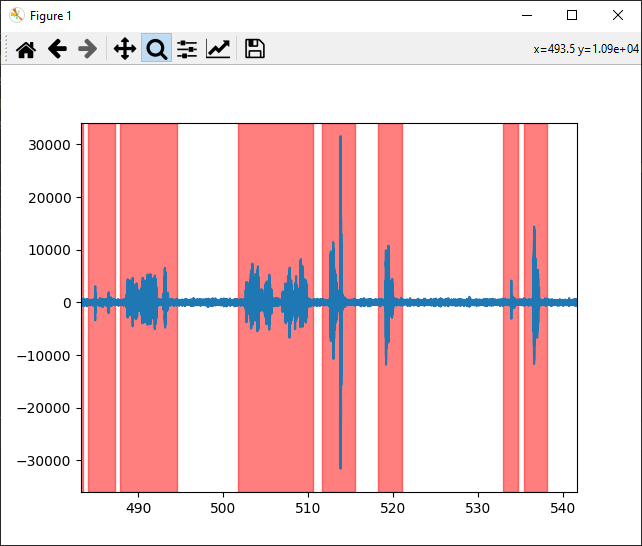
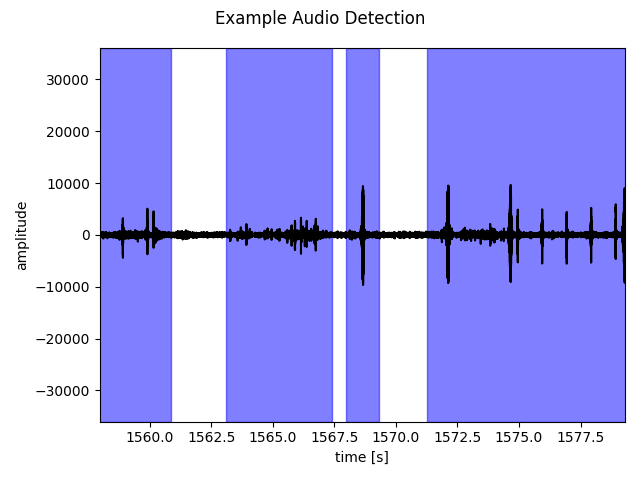
Added the ability to generate an example image. Requires matplotlib (added as requirement)

diff --git a/support.py b/support.py
@@ -20,10 +20,11 @@ import numpy as np
 from moviepy.editor import *
 import argparse
 from functools import reduce
+import matplotlib.pyplot as plt
 
 __major_version__ = 0
 __minor_version__ = 0
-__revision__ = 3
+__revision__ = 4
 __VERSION__ = f'Auto Video Editor {__major_version__}.{__minor_version__}.{__revision__}'
 
 parser = argparse.ArgumentParser(description="Automatically remove silence from a video.")
@@ -40,6 +41,7 @@ parser.add_argument('-lo', '--lead-out', type=float)
 parser.add_argument('-c', '--config')
 parser.add_argument('-n', '--nice-audio', action='store_true')
 parser.add_argument('-v', '--version', action='version', version=__VERSION__)
+parser.add_argument('--example-image', action='store_true')
 
 
 def combine_overlaps(ranges):
@@ -210,3 +212,37 @@ def nice_audio(audio_file):
     data_out = lfilter(b, a, data[:, 0])
     data_out /= np.max(np.abs(data_out))
     write_mp3(audio_file, fs, data_out, normalized=True)
+
+
+def export_example_image(audio_data, fs_orig, fs, segments, seed=None):
+    if seed:
+        np.random.seed(seed)
+
+    # Choose a segment at random:
+    segment = np.random.choice(np.array(segments, dtype="i,i"), 1).astype(object)[0]
+    start_index = segment[0] - int(fs*10)  # 10-second padding
+    start_index = 0 if start_index < 0 else start_index
+    start_time = start_index / fs
+
+    end_index = segment[1] + int(fs * 10)
+    end_index = len(audio_data) if start_index > len(audio_data) else end_index  # 10-second padding
+    end_time = end_index / fs
+
+    t = np.linspace(0, len(audio_data), len(audio_data)) / fs_orig
+    fig, ax = plt.subplots(1, 1)
+    ax.plot(t, audio_data, color='k')
+
+    ax.set_xlim(start_time, end_time)
+    for segment in segments:
+        ax.axvspan(segment[0] / fs, segment[1] / fs, alpha=0.5, color='blue')
+
+    ax.set_xlabel('time [s]')
+    ax.set_ylabel('amplitude')
+    fig.suptitle('Example Audio Detection')
+    plt.tight_layout()
+
+    output_dir = './resources/'
+    if not os.path.exists(output_dir):
+        os.makedirs(output_dir)
+
+    fig.savefig(f'{output_dir}example_audio_detection.png')

diff --git a/auto-video-edit.py b/auto-video-edit.py
@@ -42,6 +42,10 @@ if __name__ == "__main__":
     # Find interesting segments
     segments = process(find_segments, "Finding Interesting Segments...", args=(processed_data, fs, args))
 
+    # Generate an example image if requested
+    if args.example_image:
+        process(export_example_image, "Generating Example Image... ", args=(data_orig[:, 0], fs_orig, fs, segments))
+
     # Extract video segments from primary video file and stitch them together into output product
     clips = process(extract_clips, "Extracting clips...", args=(args.input_file, segments, 1/fs))
     output_video = concatenate_videoclips(clips)

diff --git a/README.md b/README.md
@@ -56,6 +56,7 @@ use the following options:
 | -d, --decimate    | Integer value to downsample audio. If left undefined, the program will attempt to automatically determine a suitable decimation value based on the end frequency.      |
 | -t, --threshold   | Value (in dB) the signal must be above the noise. (default = 5 dB)                                                                                                     |
 | -n, --nice-audio  | Flag to indicate if you'd like the tool to filter the output audio in the 150-10000 Hz range (this is useful if the video was recorded with lower quality microphones) |
+| --example-image   | Flag to indicate if you'd like the tool to generate an example image of the audio and at least one detected event.                                                     |
 | -sf, --start-freq | The start frequency of audio events of interest. This is typically the narrator's vocal range (default = 200 Hz)                                                       |
 | -ef, --end-freq   | The end frequency of audio events of interest. This is typically the narrator's vocal range (default = 3000 Hz)                                                        |
 | -bg, --band-gap   | Buffer around vocal range to find out-of-band energy. (default  = 50 Hz)                                                                                               |
